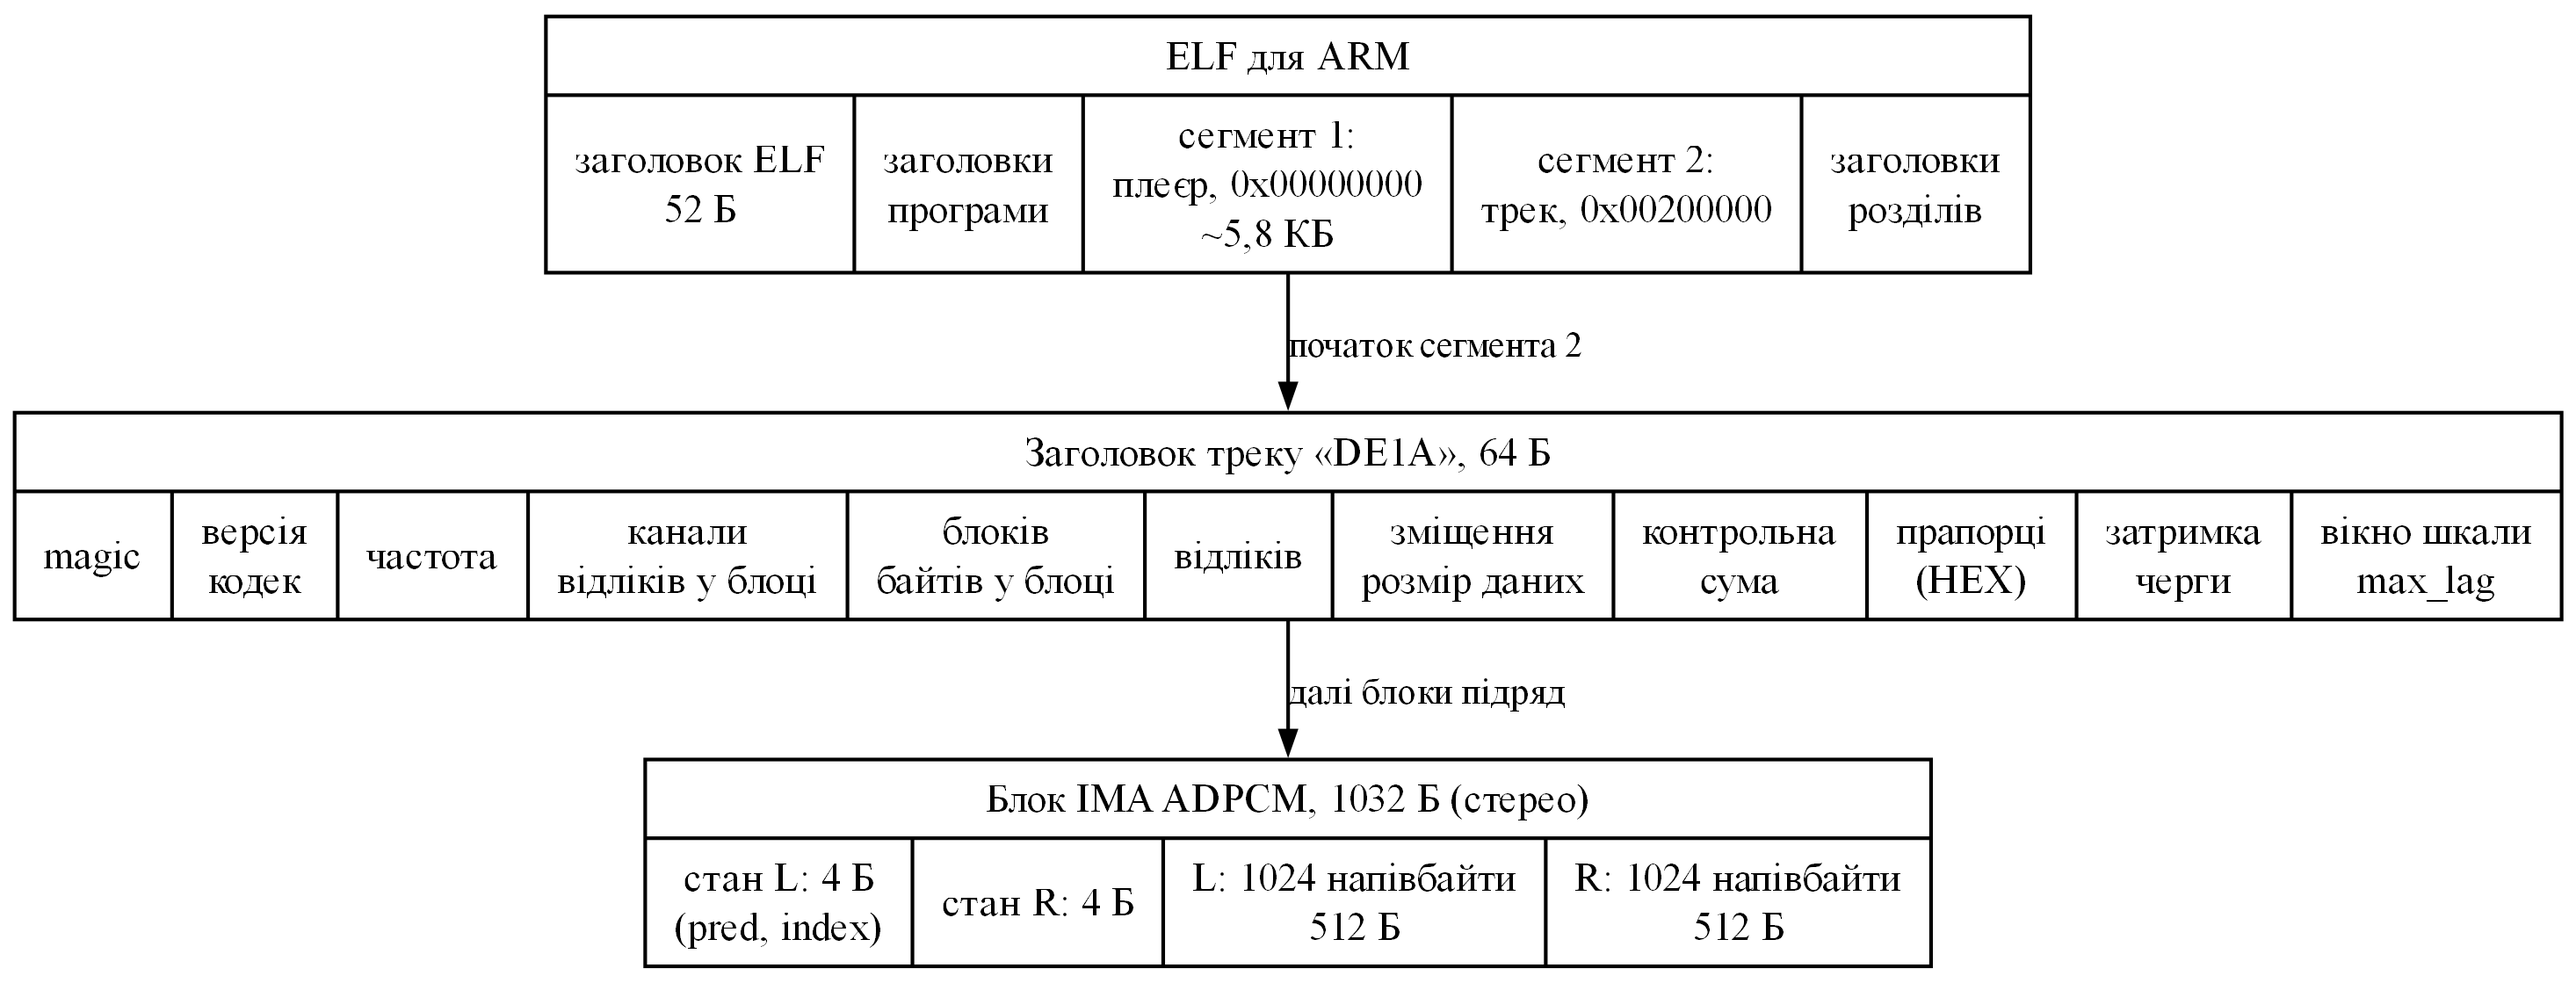
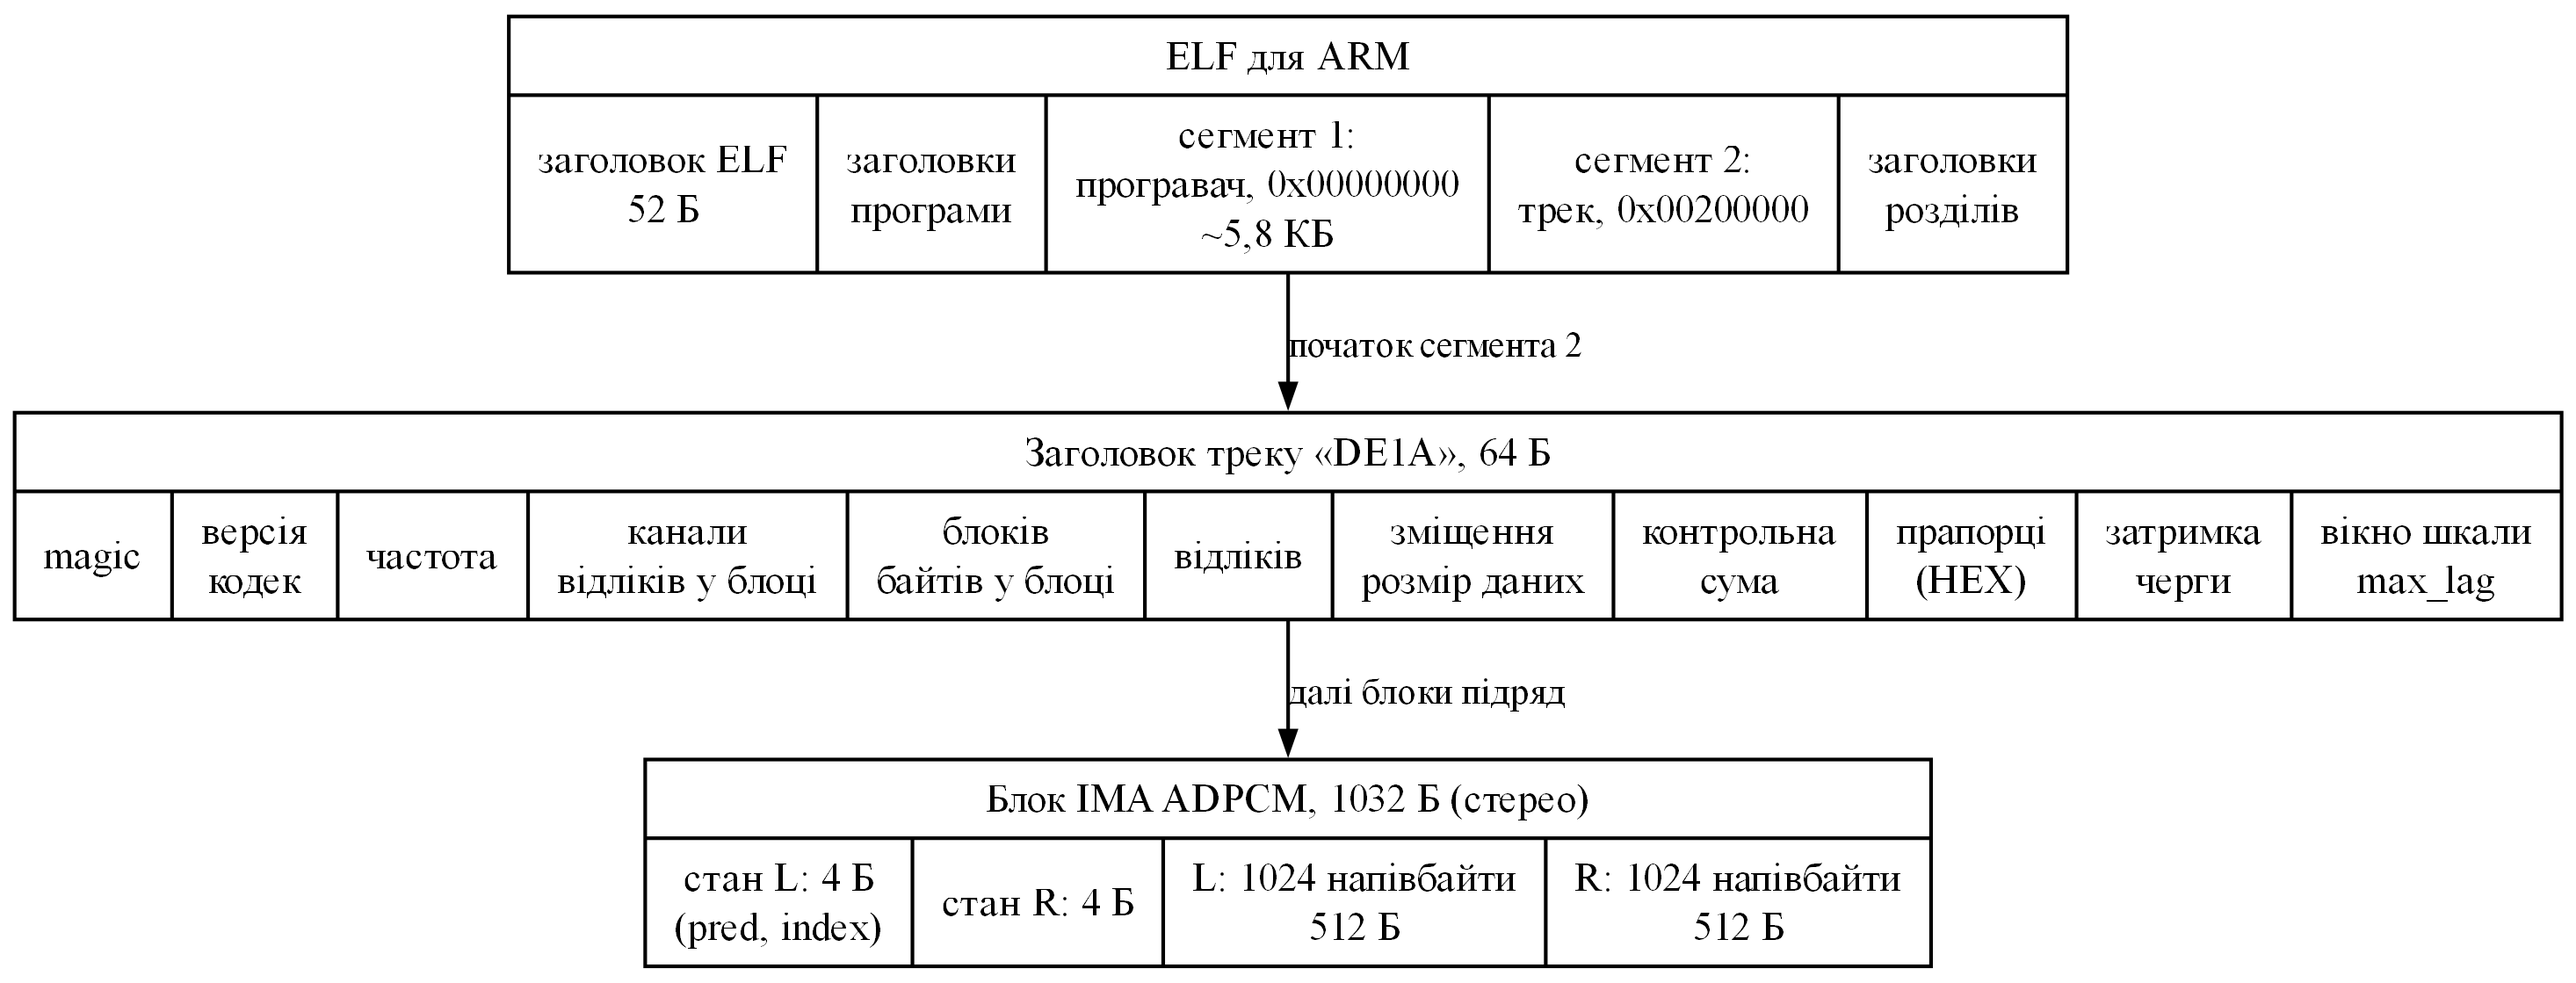
docs: decimal comma in plots, legends clear of the curves
Графіки за ДСТУ: десяткова кома й знак мінус на осях, легенди не
перекривають криві; у схемі формату файла «програвач» замість «плеєр».

Changed region(s): [[0.1862, 0.0, 0.807, 0.2735]]

diff --git a/docs/make_figures.py b/docs/make_figures.py
@@ -19,10 +19,22 @@ from deplayer.targets import TARGETS              # noqa: E402
 import matplotlib                                 # noqa: E402
 matplotlib.use('Agg')
 import matplotlib.pyplot as plt                   # noqa: E402
+from matplotlib.ticker import FuncFormatter       # noqa: E402
 
 plt.rcParams.update({'font.family': 'Times New Roman', 'font.size': 12, 'axes.linewidth': 0.8,
                      'savefig.dpi': 200, 'savefig.bbox': 'tight'})
 FONT = 'Times New Roman,'   # кома: інакше Pango сприймає «Roman» як стиль
+
+
+def num(v, fmt='%g'):
+    """Число за ДСТУ: десяткова кома й справжній мінус."""
+    return (fmt % v).replace('.', ',').replace('-', '−')
+
+
+def comma_axes(*axes):
+    for ax in axes:
+        for a in (ax.xaxis, ax.yaxis):
+            a.set_major_formatter(FuncFormatter(lambda v, _: num(round(v, 6))))
 
 
 def dot(name, src):
@@ -137,7 +149,7 @@ def diagram_format():
 digraph F {
   rankdir=TB; nodesep=0.2; ranksep=0.35;
   node [shape=record, fontname="%s", fontsize=11];
-  elf [label="{ELF для ARM|{заголовок ELF\n52 Б|заголовки\nпрограми|сегмент 1:\nплеєр, 0x00000000\n~5,8 КБ|сегмент 2:\nтрек, 0x00200000|заголовки\nрозділів}}"];
+  elf [label="{ELF для ARM|{заголовок ELF\n52 Б|заголовки\nпрограми|сегмент 1:\nпрогравач, 0x00000000\n~5,8 КБ|сегмент 2:\nтрек, 0x00200000|заголовки\nрозділів}}"];
   hdr [label="{Заголовок треку «DE1A», 64 Б|{magic|версія\nкодек|частота|канали\nвідліків у блоці|блоків\nбайтів у блоці|відліків|зміщення\nрозмір даних|контрольна\nсума|прапорці\n(HEX)|затримка\nчерги|вікно шкали\nmax_lag}}"];
   blk [label="{Блок IMA ADPCM, 1032 Б (стерео)|{стан L: 4 Б\n(pred, index)|стан R: 4 Б|L: 1024 напівбайти\n512 Б|R: 1024 напівбайти\n512 Б}}"];
   elf -> hdr [label="початок сегмента 2", fontname="%s", fontsize=10, arrowsize=0.6];
@@ -194,7 +206,8 @@ def plot_meter(pcm, rate):
     a2.set_yticks(range(0, 11, 2))
     a2.set_ylabel('Світлодіодів')
     a2.set_xlabel('t, с')
-    a2.legend(loc='lower right', frameon=False, fontsize=10)
+    a2.legend(loc='lower center', frameon=False, fontsize=10, ncol=2)
+    comma_axes(a1, a2)
     fig.savefig(os.path.join(HERE, 'plot_meter.png'))
     plt.close(fig)
     hist = np.bincount(bar, minlength=11) / len(bar) * 100
@@ -221,11 +234,13 @@ def plot_adpcm(track):
         e = pcm.astype(np.float64) - dec.astype(np.float64)
         snr = 10 * np.log10(np.mean(pcm.astype(np.float64) ** 2) / np.mean(e ** 2))
         out[key] = snr
-        ax.set_title('%d Гц, SNR %.1f дБ' % (t.rate, snr), fontsize=12)
+        ax.set_title('%d Гц, SNR %s дБ' % (t.rate, num(snr, '%.1f')), fontsize=12)
         ax.set_ylabel('Амплітуда')
-        ax.legend(loc='upper right', frameon=False, fontsize=9, ncol=3)
+        comma_axes(ax)
     axes[-1].set_xlabel('t, мс (фрагмент із 60-ї секунди)')
-    fig.tight_layout()
+    h, lab = axes[0].get_legend_handles_labels()
+    fig.legend(h, lab, loc='upper center', ncol=3, frameon=False, fontsize=10)
+    fig.tight_layout(rect=(0, 0, 1, 0.94))
     fig.savefig(os.path.join(HERE, 'plot_adpcm.png'))
     plt.close(fig)
     print('рисунок plot_adpcm.png; SNR:', {k: round(v, 1) for k, v in out.items()})
@@ -264,6 +279,7 @@ def plot_clock():
     ax.set_ylabel('Позиція в треку, с')
     ax.set_ylim(bottom=0)
     ax.legend(loc='upper left', frameon=False, fontsize=10)
+    comma_axes(ax)
     fig.savefig(os.path.join(HERE, 'plot_clock.png'))
     plt.close(fig)
     err = np.array(C[400:]) - np.array(P[400:])
